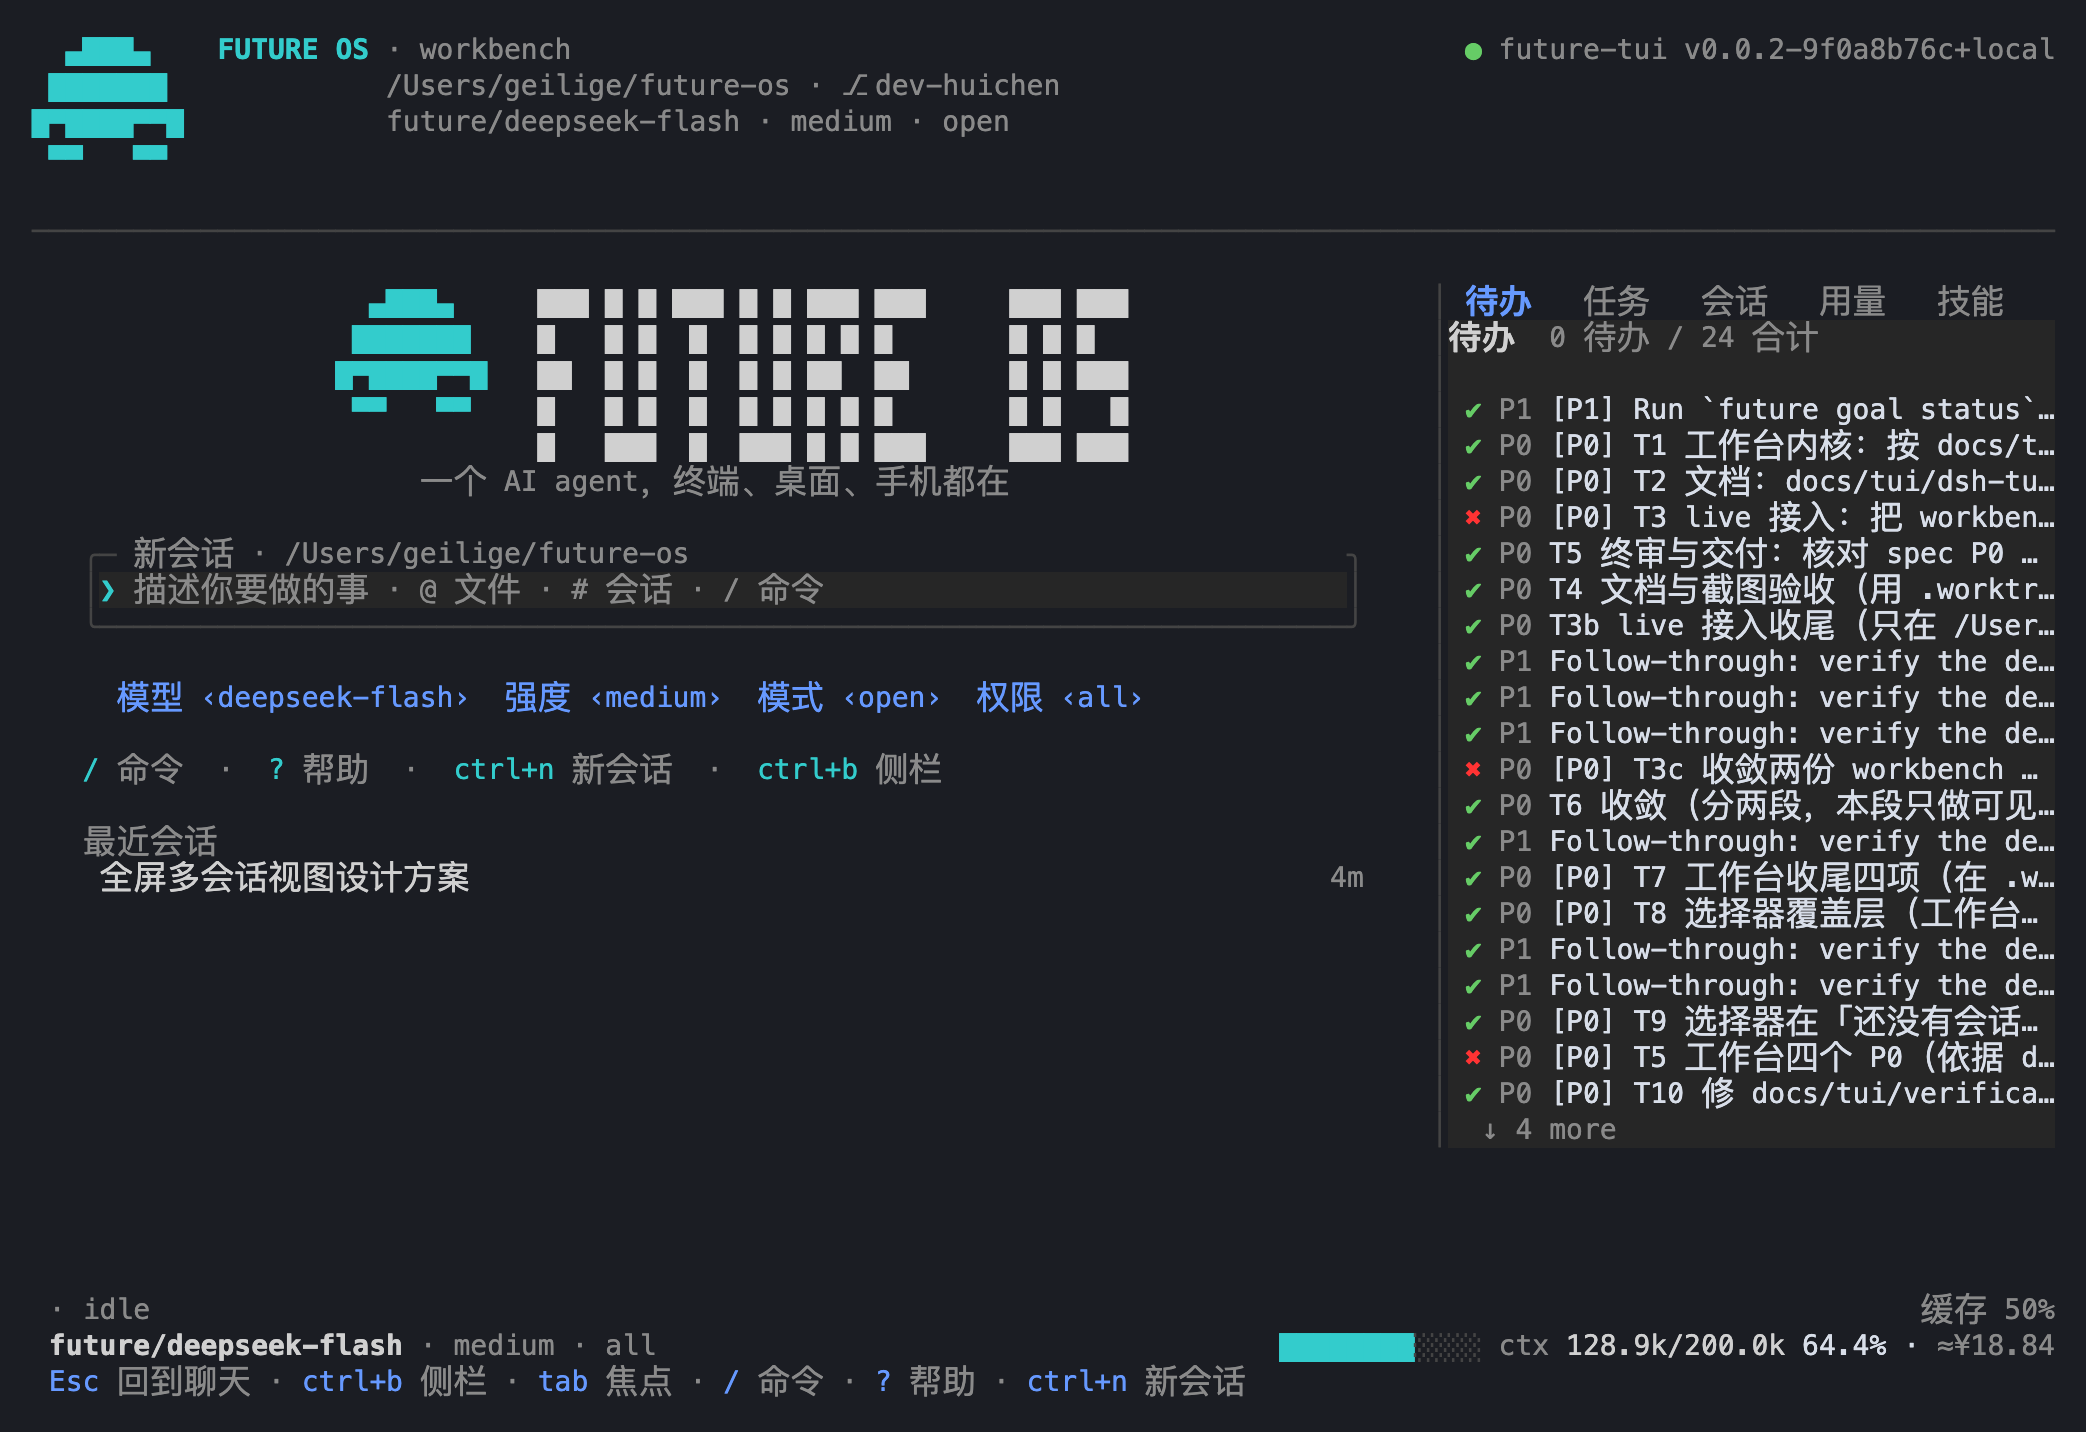
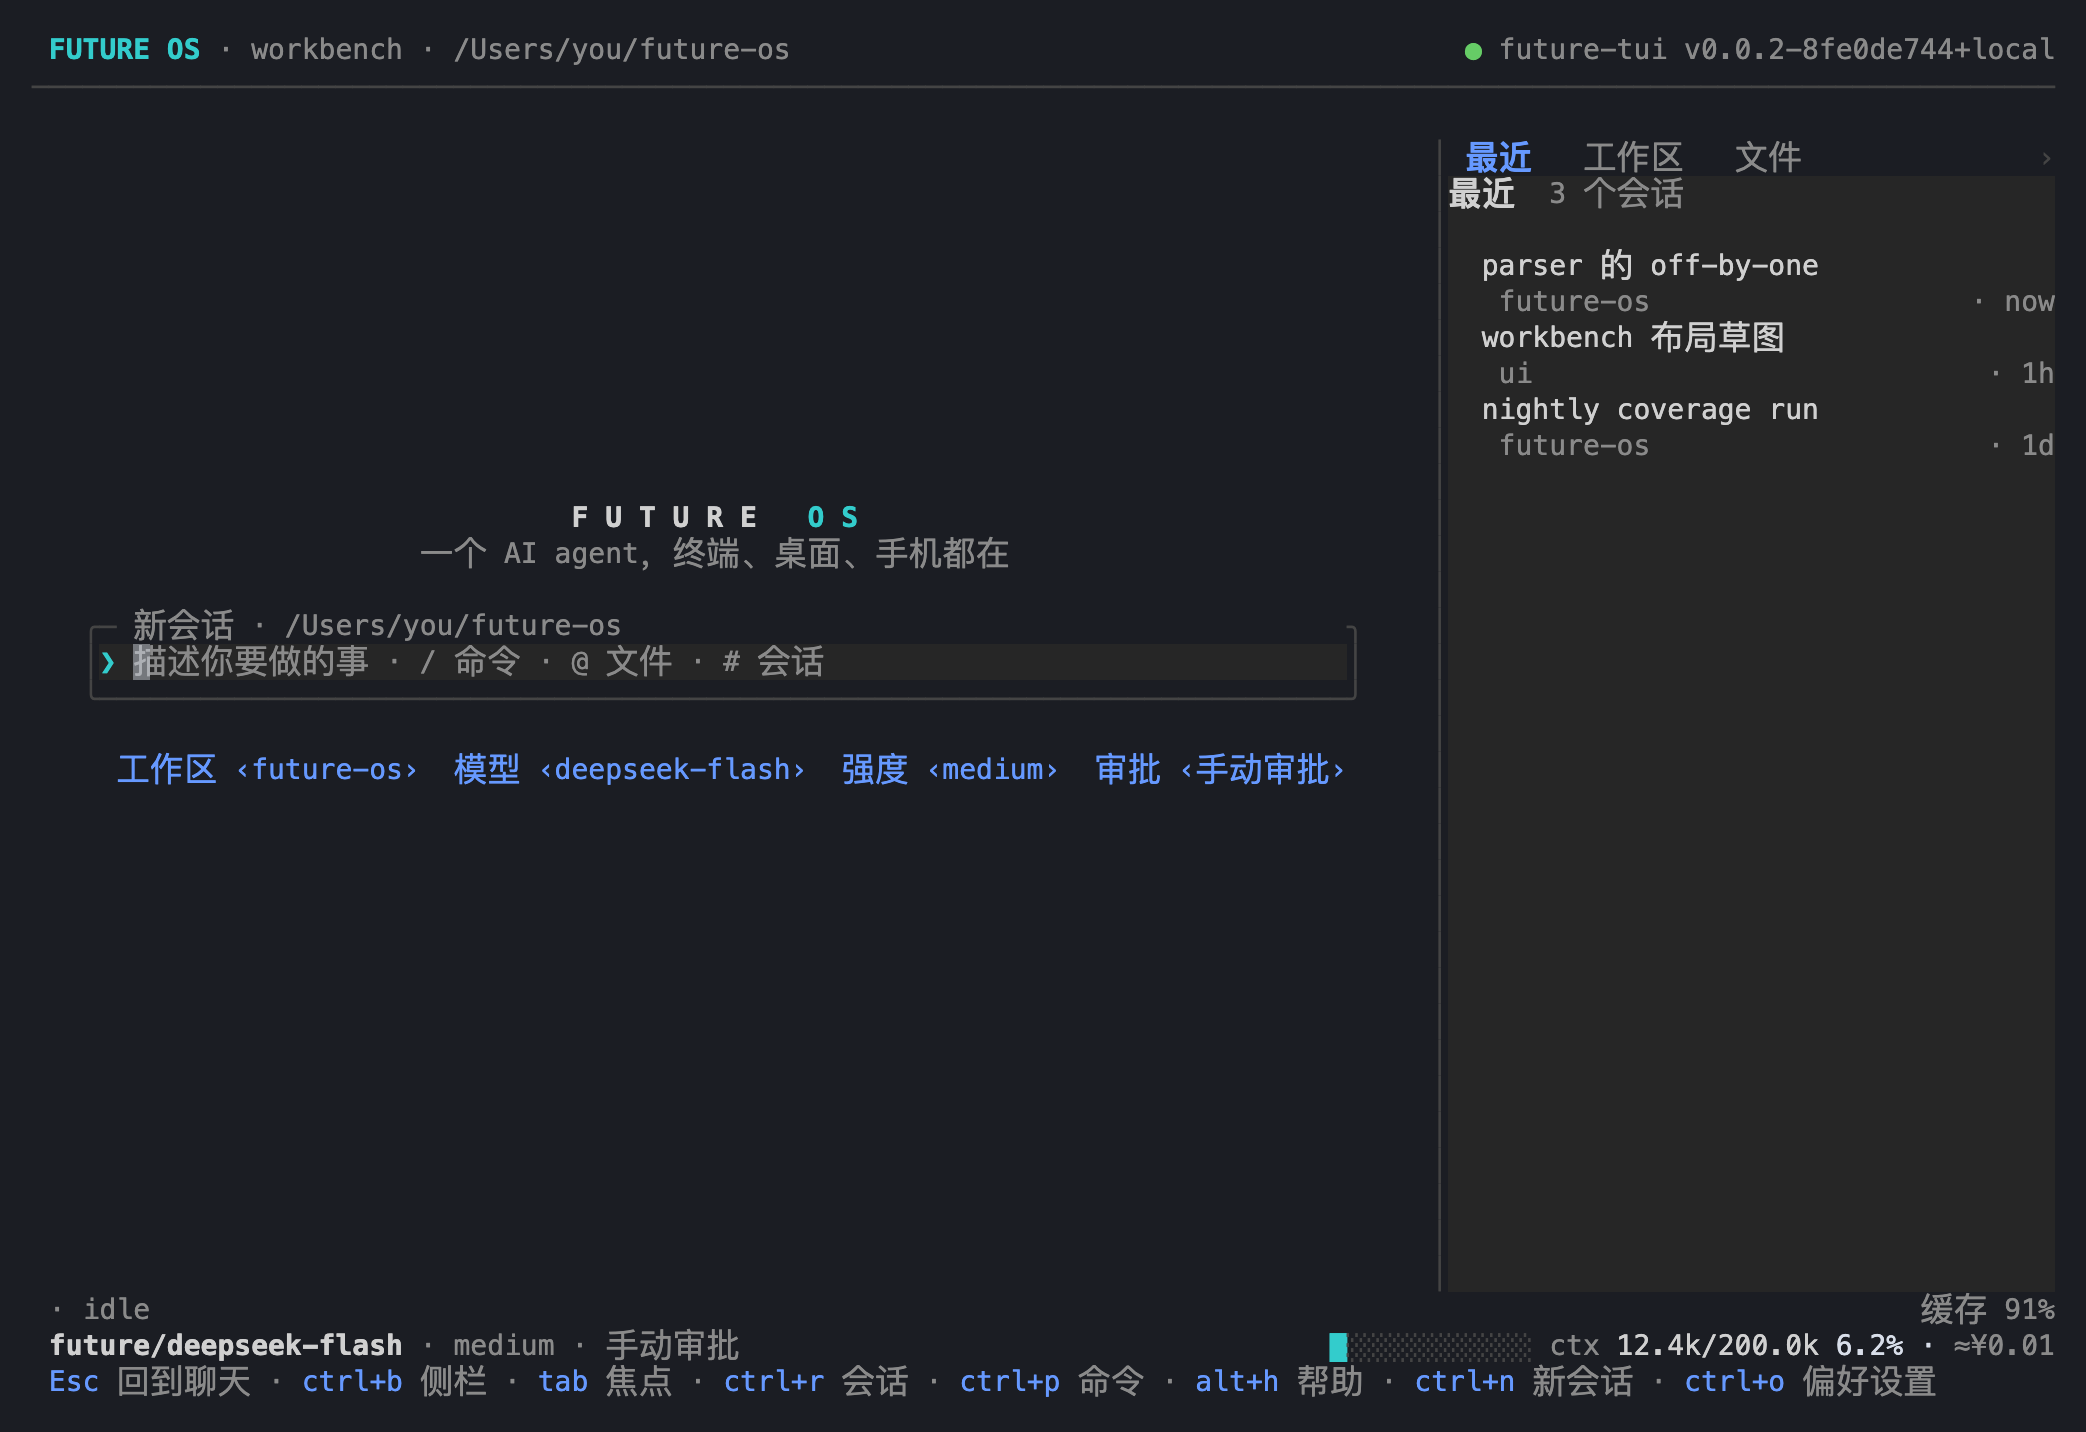
docs(tui): reshot the launchpad frame, and the parity row with it
The baseline was captured while the block still drew its shortcut row, so
it showed a screen the code no longer paints. Re-shot from the real TUI
in a pty at 120x38 (tui/scripts/shot.sh launchpad), same dimensions as
before.

The parity inventory's Launchpad row was the last place that still
described those key hints as part of the block, so it says what the block
carries instead: the four chips, with `/` `@` `#` in the placeholder
and every key in the footer's hint row.

diff --git a/docs/tui/dsh-tui-parity.zh-CN.md b/docs/tui/dsh-tui-parity.zh-CN.md
@@ -248,7 +248,7 @@ alt screen、鼠标模式与帧时钟 `[F:tui/src/workbench/run.rs:92]`；旧内
 | 布局 | `NARROW_WIDTH = 88`、`SMALL_HEIGHT = 24`、`SIDEBAR_DEFAULT/MIN/MAX = 36/30/48`、聊天左右各 2 格内边距；绘制与命中用同一份 `Metrics` | `[F:tui/src/workbench/layout.rs:65]` |
 | 侧栏 | 五个页签 `待办 任务 会话 用量 技能`，≥88 列常驻，以下 `ctrl+b` 开全屏面板；分隔条拖 30..48 并在松手后持久化 | `[F:tui/src/workbench/panels.rs:18]`、`[S:workbench-panel-full-60x20.png]` |
 | 面板数据 | 待办读 `events.jsonl`（✔/◉/○/✖ + 优先级）、技能读 `get_state` + 两个技能目录、任务读只读 `tasks.db`、会话读 `list_sessions`、用量读 `get_state` | `[F:tui/src/workbench/local.rs:92]`、`[F:tui/src/workbench/live.rs:201]`、`[S:workbench-panel-todo.png]`、`[S:workbench-panel-skills.png]` |
-| 启动台 | 字标 + 主张句、带框输入框、整块上下居中、参数 chip（工作区/模型/强度/审批）、快捷键行、最近会话 | `[F:tui/src/workbench/launchpad.rs]`、`[S:workbench-launchpad.png]` |
+| 启动台 | 字标 + 主张句、带框输入框、整块上下居中、参数 chip（工作区/模型/强度/审批）；这一块自己不列按键行（底部提示行负责），`/` `@` `#` 写在 placeholder 上 | `[F:tui/src/workbench/launchpad.rs]`、`[S:workbench-launchpad.png]` |
 | 状态 / activity | `模型 · 强度 · 权限 | 进度条 + ctx 用量/总量 + % · ≈¥`；activity 为 `转轮 + 动词 + 用时 + 工具数 + tok/s`，另有 `缓存 N%` | `[F:tui/src/workbench/screen.rs:468]`、`[F:tui/src/workbench/screen.rs:430]`、`[S:workbench-chat.png]` |
 | 主题 | 六套 256 色调色板（`dark`、`light`、`one-dark`、`one-light`、`high-contrast`、`dracula`），沿用内联目录的 id，因为 `themeId` 是两个界面共用的一把键；`/theme` 打开选择器，高亮移动即预览，`esc` 恢复，只有 `enter` 持久化 | `[F:tui/src/workbench/theme.rs:54]`、`[F:tui/src/workbench/picker.rs:312]`、`[S:workbench-picker-theme.png]`、`[S:workbench-light-120x38.png]` |
 | 选择器 | `/model`、`/theme`、`/sessions` 共用同一张浮层：搜索行、分组标题、当前值上的 `✓`、模型选择器的强度滑杆，点击行会**同时**移动高亮并应用 | `[F:tui/src/workbench/picker.rs]`、`[F:tui/src/workbench/screen.rs:721]`、`[S:workbench-picker-model.png]`、`[S:workbench-picker-sessions.png]` |

diff --git a/docs/tui/dsh-tui-parity.md b/docs/tui/dsh-tui-parity.md
@@ -291,7 +291,7 @@ gone, pinned by `help_describes_this_build`
 | Layout | `NARROW_WIDTH = 88`, `SMALL_HEIGHT = 24`, `SIDEBAR_DEFAULT/MIN/MAX = 36/30/48`, 2 cells of chat padding; one `Metrics`/hit-region source for drawing and hit-testing | `[F:tui/src/workbench/layout.rs:65]` |
 | Sidebar | five tabs `待办 任务 会话 用量 技能`, persistent at ≥88 columns, full-screen panel under `ctrl+b` below that, divider drag 30..48 persisted on release | `[F:tui/src/workbench/panels.rs:18]`, `[S:workbench-panel-full-60x20.png]` |
 | Panel data | goal todos from `events.jsonl` (✔/◉/○/✖ + priority), skills from `get_state` + both skill dirs, jobs from a read-only `tasks.db`, sessions from `list_sessions`, usage from `get_state` | `[F:tui/src/workbench/local.rs:92]`, `[F:tui/src/workbench/live.rs:201]`, `[S:workbench-panel-todo.png]`, `[S:workbench-panel-skills.png]` |
-| Launchpad | wordmark + tagline, framed composer, centred block, parameter chips (workspace/model/effort/approval), shortcut entries, recent sessions | `[F:tui/src/workbench/launchpad.rs]`, `[S:workbench-launchpad.png]` |
+| Launchpad | wordmark + tagline, framed composer, centred block, parameter chips (workspace/model/effort/approval); the block carries no key hints of its own — the footer's hint row has them, and `/` `@` `#` are in the placeholder | `[F:tui/src/workbench/launchpad.rs]`, `[S:workbench-launchpad.png]` |
 | Status / activity | `model · effort · permission | gauge + ctx used/total + % · ≈¥`; activity `spinner + verb + elapsed + tools + tok/s`, `缓存 N%` | `[F:tui/src/workbench/screen.rs:468]`, `[F:tui/src/workbench/screen.rs:430]`, `[S:workbench-chat.png]` |
 | Themes | six 256-colour palettes (`dark`, `light`, `one-dark`, `one-light`, `high-contrast`, `dracula`), the ids of the inline catalogue because `themeId` is one key for both surfaces; `/theme` opens a picker that previews as the highlight moves, `esc` restores, only `enter` persists | `[F:tui/src/workbench/theme.rs:54]`, `[F:tui/src/workbench/picker.rs:312]`, `[S:workbench-picker-theme.png]`, `[S:workbench-light-120x38.png]` |
 | Pickers | one overlay for `/model`, `/theme`, `/sessions`: search line, group headings, `✓` on the value in force, the model picker's reasoning slider, a click moves the highlight **and** applies | `[F:tui/src/workbench/picker.rs]`, `[F:tui/src/workbench/screen.rs:721]`, `[S:workbench-picker-model.png]`, `[S:workbench-picker-sessions.png]` |
